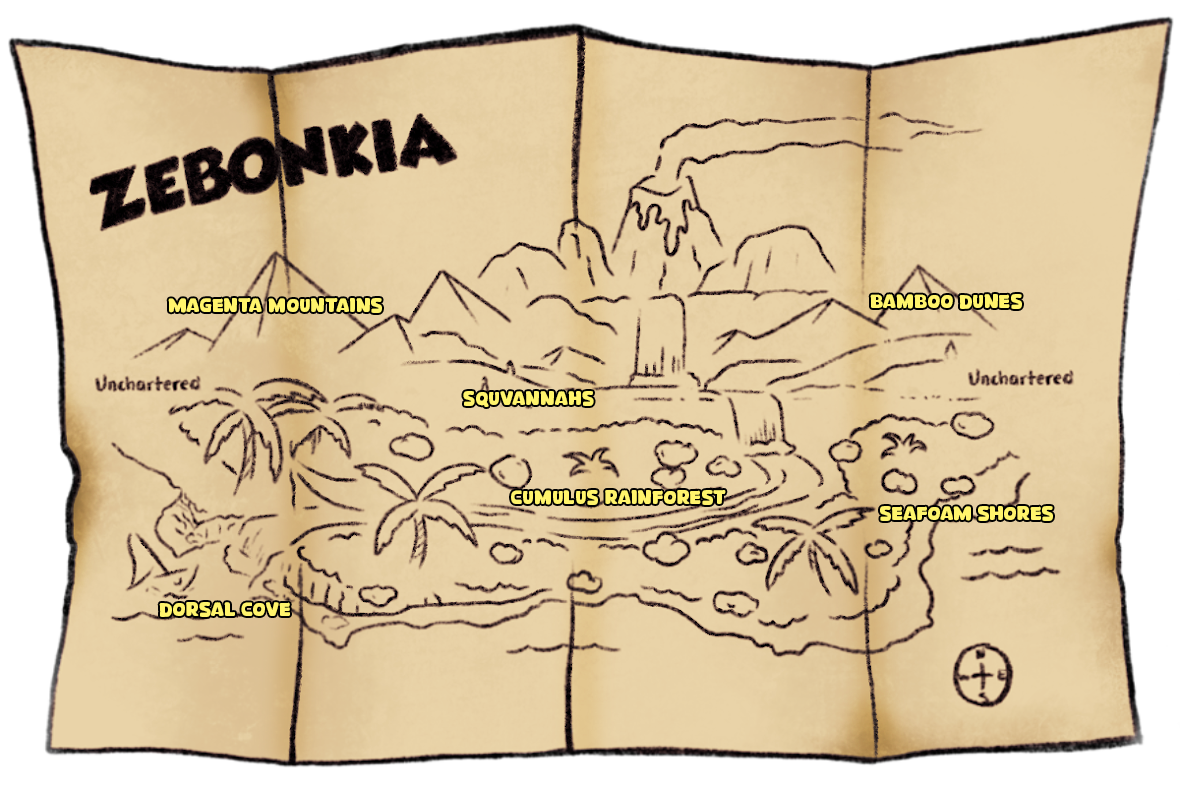
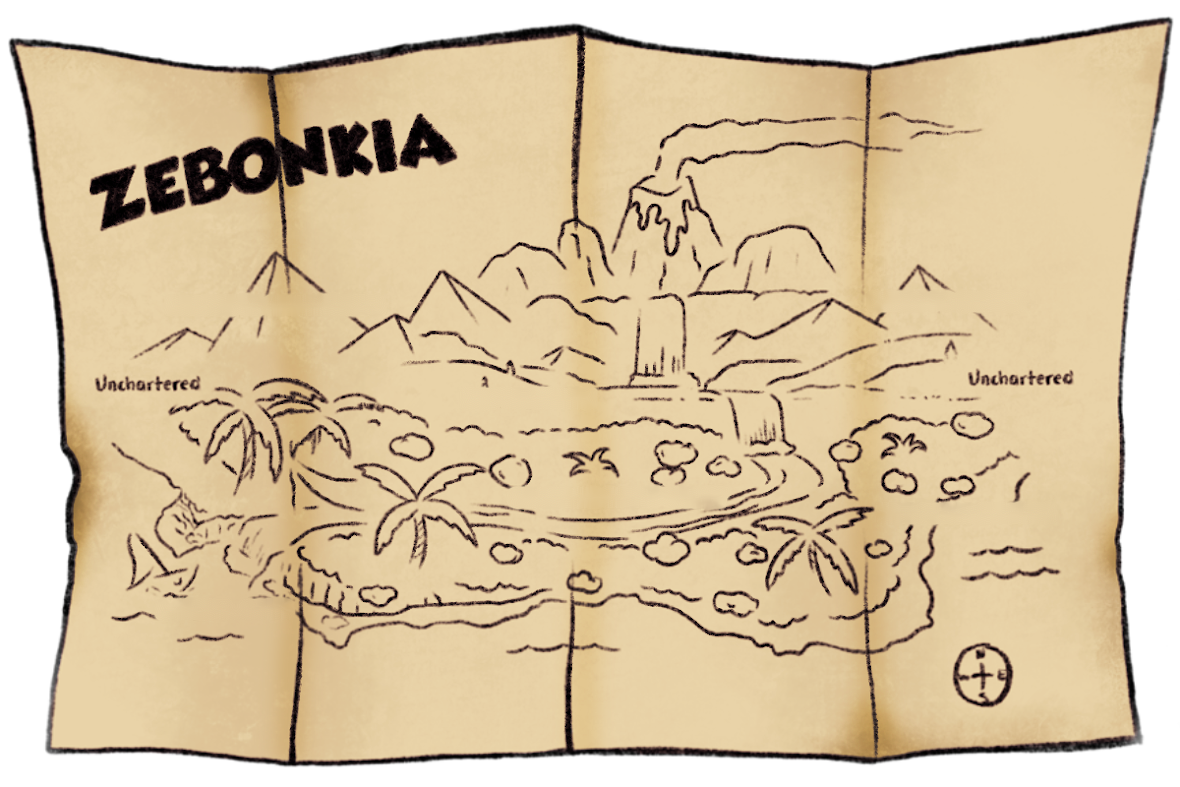
Map names as their own layer

diff --git a/src/scenes/Overworld.js b/src/scenes/Overworld.js
@@ -7,20 +7,32 @@
 // was answered (or a note says that's what earns it). A biome finished
 // before has an extra dot that leads back out to the whole map.
 
-import { LEVELS, PATHS, MAP_W, MAP_H, BIOMES, PLAY_BIOMES, biomeLevels } from '../data/world.js?v=05b4fb9';
-import { state, pathKey } from '../state.js?v=05b4fb9';
-import { COLORS, heading, text, makeButton } from '../theme.js?v=05b4fb9';
-import { audio, fullscreenButton, musicButton } from '../audio.js?v=05b4fb9';
-import { BUILD } from '../version.js?v=05b4fb9';
-import { starsFor, rewardTotals } from '../rewards.js?v=05b4fb9';
-import { currency, currencyIcon } from '../currency.js?v=05b4fb9';
-import { showCompanionCard } from '../companionCard.js?v=05b4fb9';
-import { showDifficultyMenu } from '../difficultyMenu.js?v=05b4fb9';
+import { LEVELS, PATHS, MAP_W, MAP_H, BIOMES, PLAY_BIOMES, biomeLevels } from '../data/world.js?v=c0150cb';
+import { state, pathKey } from '../state.js?v=c0150cb';
+import { COLORS, heading, text, makeButton } from '../theme.js?v=c0150cb';
+import { audio, fullscreenButton, musicButton } from '../audio.js?v=c0150cb';
+import { BUILD } from '../version.js?v=c0150cb';
+import { starsFor, rewardTotals } from '../rewards.js?v=c0150cb';
+import { currency, currencyIcon } from '../currency.js?v=c0150cb';
+import { showCompanionCard } from '../companionCard.js?v=c0150cb';
+import { showDifficultyMenu } from '../difficultyMenu.js?v=c0150cb';
 
 const WALK_SPEED = 280;     // map px per second
 const DOT_SPACING = 18;     // px between paw prints on a path
 const PAW_SIZE = 16;        // px across one paw print
 const ZOOM_MS = 900;        // the zoom into and out of a biome
+// Where each area's name goes on the map: the middle of the name painted
+// there before (tools/paint_out_map_labels.py printed the boxes).
+const MAP_NAMES = {
+  magenta: [275, 305],
+  squvannahs: [528, 399],
+  cumulus: [618, 497],
+  bamboo: [946, 301],
+  seafoam: [966, 513],
+  dorsal: [225, 609],
+};
+// The painted ZEBONKIA title's lower right corner, in map pixels: names keep out.
+const TITLE_BOX = { x1: 470, y1: 285 };
 
 // Zoomed into a biome, the map is drawn K times bigger; dots, prints and
 // the explorer are drawn 1/K the size so they stay the same on screen.
@@ -156,6 +168,7 @@ export class OverworldScene extends Phaser.Scene {
     this.world.add([this.pathLayer, this.nodeLayer, this.badgeLayer]);
     this.buildNodes();
     this.buildBadges();
+    this.buildNames();
     this.buildPlayer();
     this.world.add(this.player);
     this.buildPanel();
@@ -399,6 +412,70 @@ export class OverworldScene extends Phaser.Scene {
       });
     }
     this.currentBiome = current;
+    this.refreshNames(here);
+  }
+
+  // ---------- area names ----------
+
+  // The area names, a layer of their own over the map (the user, 2026-10-31:
+  // "remove the letters on the map and add them as their own layer"; they
+  // chose game text, revealed as areas unlock, styled and animated). The
+  // painted names are gone from the picture (tools/paint_out_map_labels.py);
+  // each name sits where its painted one did. They live in the badge layer,
+  // so they show on the whole map only, not in a close-up.
+  buildNames() {
+    this.names = {};
+    this.namesShown = new Set();
+    this.namesReady = false;
+    Object.entries(MAP_NAMES).forEach(([b, [x, y]]) => {
+      const t = this.add.text(x, y, BIOMES[b].name.toUpperCase(), heading(24, '#ffe14d', {
+        stroke: COLORS.inkCss, strokeThickness: 6,
+      })).setOrigin(0.5).setVisible(false);
+      // Where its area's badge would cover it (the rainforest's sits on its
+      // painted name), the name goes just above the badge instead, or below
+      // it where above runs into the ZEBONKIA title (Magenta Mountains).
+      const badge = this.badges[b];
+      if (badge && Math.abs(badge.y - y) < 44 && Math.abs(badge.x - x) < t.width / 2 + 30) {
+        const above = badge.y - 46;
+        const hitsTitle = x - t.width / 2 < TITLE_BOX.x1 && above - t.height / 2 < TITLE_BOX.y1;
+        t.setY(hitsTitle ? badge.y + 46 : above);
+      }
+      this.badgeLayer.addAt(t, 0);                             // (behind the badges)
+      this.names[b] = t;
+    });
+  }
+
+  // A name shows once its area is open (Bamboo Dunes, with no levels yet,
+  // only in inspection mode). One that opens while the map is up (its path
+  // just revealed) fades and pops in; the area she's in gently pulses.
+  refreshNames(here) {
+    if (!this.names) return;
+    if (this.namePulse) {
+      this.namePulse.stop();
+      this.namePulse = null;
+    }
+    Object.entries(this.names).forEach(([b, t]) => {
+      const open = state.inspectAll || (PLAY_BIOMES.includes(b) && this.biomeOpen(b));
+      if (!open) {
+        t.setVisible(false);
+        return;
+      }
+      t.setVisible(true).setScale(1);
+      if (!this.namesShown.has(b)) {
+        this.namesShown.add(b);
+        if (this.namesReady) {
+          t.setAlpha(0).setScale(0.6);
+          this.tweens.add({ targets: t, alpha: 1, scale: 1, duration: 700, ease: 'Back.Out' });
+          return;
+        }
+      }
+      t.setAlpha(1);
+    });
+    this.namesReady = true;
+    const t = here && this.names[here];
+    if (t && t.visible) {
+      this.namePulse = this.tweens.add({ targets: t, scale: 1.12, duration: 900, yoyo: true, repeat: -1, ease: 'Sine.InOut' });
+    }
   }
 
   onBadgeTapped(b) {

diff --git a/src/data/questions.js b/src/data/questions.js
@@ -15,23 +15,23 @@
 
 // This is the Explorer bank. Junior Explorer and Pioneer have their own
 // (questions_junior.js, questions_pioneer.js), copies of this one for now.
-import { JUNIOR_QUESTIONS } from './questions_junior.js?v=05b4fb9';
-import { PIONEER_QUESTIONS } from './questions_pioneer.js?v=05b4fb9';
-import dorsalJunior from './questions/dorsal_junior.js?v=05b4fb9';
-import dorsalExplorer from './questions/dorsal_explorer.js?v=05b4fb9';
-import dorsalPioneer from './questions/dorsal_pioneer.js?v=05b4fb9';
-import cumulusJunior from './questions/cumulus_junior.js?v=05b4fb9';
-import cumulusExplorer from './questions/cumulus_explorer.js?v=05b4fb9';
-import cumulusPioneer from './questions/cumulus_pioneer.js?v=05b4fb9';
-import squvannahsJunior from './questions/squvannahs_junior.js?v=05b4fb9';
-import squvannahsExplorer from './questions/squvannahs_explorer.js?v=05b4fb9';
-import squvannahsPioneer from './questions/squvannahs_pioneer.js?v=05b4fb9';
-import seafoamJunior from './questions/seafoam_junior.js?v=05b4fb9';
-import seafoamExplorer from './questions/seafoam_explorer.js?v=05b4fb9';
-import seafoamPioneer from './questions/seafoam_pioneer.js?v=05b4fb9';
-import magentaJunior from './questions/magenta_junior.js?v=05b4fb9';
-import magentaExplorer from './questions/magenta_explorer.js?v=05b4fb9';
-import magentaPioneer from './questions/magenta_pioneer.js?v=05b4fb9';
+import { JUNIOR_QUESTIONS } from './questions_junior.js?v=c0150cb';
+import { PIONEER_QUESTIONS } from './questions_pioneer.js?v=c0150cb';
+import dorsalJunior from './questions/dorsal_junior.js?v=c0150cb';
+import dorsalExplorer from './questions/dorsal_explorer.js?v=c0150cb';
+import dorsalPioneer from './questions/dorsal_pioneer.js?v=c0150cb';
+import cumulusJunior from './questions/cumulus_junior.js?v=c0150cb';
+import cumulusExplorer from './questions/cumulus_explorer.js?v=c0150cb';
+import cumulusPioneer from './questions/cumulus_pioneer.js?v=c0150cb';
+import squvannahsJunior from './questions/squvannahs_junior.js?v=c0150cb';
+import squvannahsExplorer from './questions/squvannahs_explorer.js?v=c0150cb';
+import squvannahsPioneer from './questions/squvannahs_pioneer.js?v=c0150cb';
+import seafoamJunior from './questions/seafoam_junior.js?v=c0150cb';
+import seafoamExplorer from './questions/seafoam_explorer.js?v=c0150cb';
+import seafoamPioneer from './questions/seafoam_pioneer.js?v=c0150cb';
+import magentaJunior from './questions/magenta_junior.js?v=c0150cb';
+import magentaExplorer from './questions/magenta_explorer.js?v=c0150cb';
+import magentaPioneer from './questions/magenta_pioneer.js?v=c0150cb';
 
 export const QUESTIONS = {
   dorsal: [

diff --git a/src/scenes/Platformer.js b/src/scenes/Platformer.js
@@ -2,20 +2,20 @@
 // from assets/svg/. Uses the level contract in levelApi.js, so the map,
 // quiz and save flow all work exactly as they will in the finished game.
 
-import { LEVELS, MAP_W, MAP_H } from '../data/world.js?v=05b4fb9';
-import { TILE, layoutFor } from '../data/levels.js?v=05b4fb9';
-import { state } from '../state.js?v=05b4fb9';
-import { COLORS, heading, text } from '../theme.js?v=05b4fb9';
-import { startQuiz, finishLevel, leaveLevel } from '../levelApi.js?v=05b4fb9';
-import { TERRAIN_SETS, texKey, pick, tileHash, solidRole, roleFiles, platformRole, BLOCKS, BLOCK_COLORS, BLOCKS_SKY } from '../data/artsets.js?v=05b4fb9';
-import { WildZebonky, GuideZebonky, zebonkyArt, ensureAnims, GRASS_SINK, LAND_DEPTH, WATER_DEPTH, layerFor } from '../actors.js?v=05b4fb9';
-import { makeNav } from '../pathing.js?v=05b4fb9';
-import { startQuestionRun } from '../data/questions.js?v=05b4fb9';
-import { audio, musicFor, musicButton, soundButton, fullscreenButton } from '../audio.js?v=05b4fb9';
-import { Companion } from '../companion.js?v=05b4fb9';
-import { startShowcase } from '../showcase.js?v=05b4fb9';
-import { startExplorerTour } from '../explorerTour.js?v=05b4fb9';
-import { LETTERS, lettersFound, findLetter, allLetters, currency, currencyIcon } from '../currency.js?v=05b4fb9';
+import { LEVELS, MAP_W, MAP_H } from '../data/world.js?v=c0150cb';
+import { TILE, layoutFor } from '../data/levels.js?v=c0150cb';
+import { state } from '../state.js?v=c0150cb';
+import { COLORS, heading, text } from '../theme.js?v=c0150cb';
+import { startQuiz, finishLevel, leaveLevel } from '../levelApi.js?v=c0150cb';
+import { TERRAIN_SETS, texKey, pick, tileHash, solidRole, roleFiles, platformRole, BLOCKS, BLOCK_COLORS, BLOCKS_SKY } from '../data/artsets.js?v=c0150cb';
+import { WildZebonky, GuideZebonky, zebonkyArt, ensureAnims, GRASS_SINK, LAND_DEPTH, WATER_DEPTH, layerFor } from '../actors.js?v=c0150cb';
+import { makeNav } from '../pathing.js?v=c0150cb';
+import { startQuestionRun } from '../data/questions.js?v=c0150cb';
+import { audio, musicFor, musicButton, soundButton, fullscreenButton } from '../audio.js?v=c0150cb';
+import { Companion } from '../companion.js?v=c0150cb';
+import { startShowcase } from '../showcase.js?v=c0150cb';
+import { startExplorerTour } from '../explorerTour.js?v=c0150cb';
+import { LETTERS, lettersFound, findLetter, allLetters, currency, currencyIcon } from '../currency.js?v=c0150cb';
 
 // Walking (the user, 2026-10-25): she builds up to speed instead of
 // starting at full speed, and letting go she slides a little before

diff --git a/src/main.js b/src/main.js
@@ -1,15 +1,15 @@
-import { MAP_W, MAP_H } from './data/world.js?v=05b4fb9';
-import { state } from './state.js?v=05b4fb9';
-import { audio } from './audio.js?v=05b4fb9';
-import { BootScene } from './scenes/Boot.js?v=05b4fb9';
-import { OverworldScene } from './scenes/Overworld.js?v=05b4fb9';
-import { PlatformerScene } from './scenes/Platformer.js?v=05b4fb9';
-import { QuizScene } from './scenes/Quiz.js?v=05b4fb9';
-import { BonusScene } from './scenes/Bonus.js?v=05b4fb9';
-import { SaveMenuScene } from './scenes/SaveMenu.js?v=05b4fb9';
-import { CharacterMenuScene } from './scenes/CharacterMenu.js?v=05b4fb9';
-import { LevelEndScene } from './scenes/LevelEnd.js?v=05b4fb9';
-import { takeLinkSave } from './savecode.js?v=05b4fb9';
+import { MAP_W, MAP_H } from './data/world.js?v=c0150cb';
+import { state } from './state.js?v=c0150cb';
+import { audio } from './audio.js?v=c0150cb';
+import { BootScene } from './scenes/Boot.js?v=c0150cb';
+import { OverworldScene } from './scenes/Overworld.js?v=c0150cb';
+import { PlatformerScene } from './scenes/Platformer.js?v=c0150cb';
+import { QuizScene } from './scenes/Quiz.js?v=c0150cb';
+import { BonusScene } from './scenes/Bonus.js?v=c0150cb';
+import { SaveMenuScene } from './scenes/SaveMenu.js?v=c0150cb';
+import { CharacterMenuScene } from './scenes/CharacterMenu.js?v=c0150cb';
+import { LevelEndScene } from './scenes/LevelEnd.js?v=c0150cb';
+import { takeLinkSave } from './savecode.js?v=c0150cb';
 
 state.load();
 // Opened from a save link: the map asks before loading it.

diff --git a/src/scenes/Boot.js b/src/scenes/Boot.js
@@ -1,11 +1,11 @@
-import { ARTSETS, texKey } from '../data/artsets.js?v=05b4fb9';
-import { testParams, DRAWN } from '../data/levels.js?v=05b4fb9';
-import { playableLevelId, BIOMES, MAP_W, MAP_H } from '../data/world.js?v=05b4fb9';
-import { CHARACTERS } from '../data/characters.js?v=05b4fb9';
-import { state } from '../state.js?v=05b4fb9';
-import { COLORS, heading, text } from '../theme.js?v=05b4fb9';
-import { showcaseData, showcaseArtset } from '../showcase.js?v=05b4fb9';
-import { explorerTourData, tourArtset, loadTourStrips } from '../explorerTour.js?v=05b4fb9';
+import { ARTSETS, texKey } from '../data/artsets.js?v=c0150cb';
+import { testParams, DRAWN } from '../data/levels.js?v=c0150cb';
+import { playableLevelId, BIOMES, MAP_W, MAP_H } from '../data/world.js?v=c0150cb';
+import { CHARACTERS } from '../data/characters.js?v=c0150cb';
+import { state } from '../state.js?v=c0150cb';
+import { COLORS, heading, text } from '../theme.js?v=c0150cb';
+import { showcaseData, showcaseArtset } from '../showcase.js?v=c0150cb';
+import { explorerTourData, tourArtset, loadTourStrips } from '../explorerTour.js?v=c0150cb';
 
 export class BootScene extends Phaser.Scene {
   constructor() {

diff --git a/designer/designer.js b/designer/designer.js
@@ -1,10 +1,10 @@
-import { TILE_PX, TERRAIN, MARKERS, DOOR, WAIT, CRATES } from './legend.js?v=05b4fb9';
-import { readDrawing } from './read-drawing.js?v=05b4fb9';
-import { ARTSETS, BLOCKS } from '../src/data/artsets.js?v=05b4fb9';
-import { LEVELS } from '../src/data/world.js?v=05b4fb9';
-import { TEST_LAYOUT_KEY } from '../src/data/levels.js?v=05b4fb9';
-import { backgroundGuide, tileSheet, svgToImage } from './guides.js?v=05b4fb9';
-import { readArtistFiles } from './artist.js?v=05b4fb9';
+import { TILE_PX, TERRAIN, MARKERS, DOOR, WAIT, CRATES } from './legend.js?v=c0150cb';
+import { readDrawing } from './read-drawing.js?v=c0150cb';
+import { ARTSETS, BLOCKS } from '../src/data/artsets.js?v=c0150cb';
+import { LEVELS } from '../src/data/world.js?v=c0150cb';
+import { TEST_LAYOUT_KEY } from '../src/data/levels.js?v=c0150cb';
+import { backgroundGuide, tileSheet, svgToImage } from './guides.js?v=c0150cb';
+import { readArtistFiles } from './artist.js?v=c0150cb';
 
 const $ = (id) => document.getElementById(id);
 const PREVIEW_SCALE = 0.4;   // 64 px tile -> about 26 px on screen

diff --git a/src/state.js b/src/state.js
@@ -2,11 +2,11 @@
 // Storage can be missing or blocked (private windows, previews), so every
 // read and write is guarded and the game still runs without it.
 
-import { LEVELS, PATHS, START_NODE, PLAY_BIOMES, biomeLevels } from './data/world.js?v=05b4fb9';
-import { DEFAULT_DIFFICULTY, difficultyById } from './data/difficulty.js?v=05b4fb9';
-import { DEFAULT_CHARACTER, characterById } from './data/characters.js?v=05b4fb9';
-import { bankFor, questionKey } from './data/questions.js?v=05b4fb9';
-import { BUILD } from './version.js?v=05b4fb9';
+import { LEVELS, PATHS, START_NODE, PLAY_BIOMES, biomeLevels } from './data/world.js?v=c0150cb';
+import { DEFAULT_DIFFICULTY, difficultyById } from './data/difficulty.js?v=c0150cb';
+import { DEFAULT_CHARACTER, characterById } from './data/characters.js?v=c0150cb';
+import { bankFor, questionKey } from './data/questions.js?v=c0150cb';
+import { BUILD } from './version.js?v=c0150cb';
 
 const KEY = 'zebonky-tms-save-v1';
 // The save before the last one, kept in case the last one is damaged.

diff --git a/src/scenes/CharacterMenu.js b/src/scenes/CharacterMenu.js
@@ -5,12 +5,12 @@
 // so far, the rest are ready for layered art (hair, hat, outfit, shoes) and
 // say "Soon". The stand-ins carry a note that they are temporary.
 
-import { MAP_W, MAP_H } from '../data/world.js?v=05b4fb9';
-import { state } from '../state.js?v=05b4fb9';
-import { COLORS, heading, text, makeButton } from '../theme.js?v=05b4fb9';
-import { CHARACTERS, LOOK_SLOTS } from '../data/characters.js?v=05b4fb9';
-import { audio } from '../audio.js?v=05b4fb9';
-import { companionGrid } from '../companionPicker.js?v=05b4fb9';
+import { MAP_W, MAP_H } from '../data/world.js?v=c0150cb';
+import { state } from '../state.js?v=c0150cb';
+import { COLORS, heading, text, makeButton } from '../theme.js?v=c0150cb';
+import { CHARACTERS, LOOK_SLOTS } from '../data/characters.js?v=c0150cb';
+import { audio } from '../audio.js?v=c0150cb';
+import { companionGrid } from '../companionPicker.js?v=c0150cb';
 
 const CARD_W = 980;
 const CARD_H = 640;

diff --git a/src/scenes/LevelEnd.js b/src/scenes/LevelEnd.js
@@ -8,11 +8,11 @@
 //   run: what this play did: { nodamage, tamed, questions, hasWild, hasCrates }
 //   levelData: set for a test run, to play it again
 
-import { MAP_W, MAP_H, LEVELS } from '../data/world.js?v=05b4fb9';
-import { state } from '../state.js?v=05b4fb9';
-import { COLORS, heading, text, makeButton } from '../theme.js?v=05b4fb9';
-import { LETTERS, REWARDS, REWARD_EACH, award, paid, lettersFound, allLetters, currency } from '../currency.js?v=05b4fb9';
-import { audio } from '../audio.js?v=05b4fb9';
+import { MAP_W, MAP_H, LEVELS } from '../data/world.js?v=c0150cb';
+import { state } from '../state.js?v=c0150cb';
+import { COLORS, heading, text, makeButton } from '../theme.js?v=c0150cb';
+import { LETTERS, REWARDS, REWARD_EACH, award, paid, lettersFound, allLetters, currency } from '../currency.js?v=c0150cb';
+import { audio } from '../audio.js?v=c0150cb';
 
 export class LevelEndScene extends Phaser.Scene {
   constructor() {

diff --git a/src/scenes/Quiz.js b/src/scenes/Quiz.js
@@ -2,12 +2,12 @@
 // A wrong answer fades out and pops up the hint, and the child tries again
 // until they find it. The right answer saves the treasure.
 
-import { LEVELS, MAP_W, MAP_H } from '../data/world.js?v=05b4fb9';
-import { drawQuestion } from '../data/questions.js?v=05b4fb9';
-import { state } from '../state.js?v=05b4fb9';
-import { COLORS, heading, text, makeButton } from '../theme.js?v=05b4fb9';
-import { audio } from '../audio.js?v=05b4fb9';
-import { showCompanionCard } from '../companionCard.js?v=05b4fb9';
+import { LEVELS, MAP_W, MAP_H } from '../data/world.js?v=c0150cb';
+import { drawQuestion } from '../data/questions.js?v=c0150cb';
+import { state } from '../state.js?v=c0150cb';
+import { COLORS, heading, text, makeButton } from '../theme.js?v=c0150cb';
+import { audio } from '../audio.js?v=c0150cb';
+import { showCompanionCard } from '../companionCard.js?v=c0150cb';
 
 const LETTERS = ['A', 'B', 'C', 'D'];
 

diff --git a/src/savecode.js b/src/savecode.js
@@ -19,10 +19,10 @@
 // reordered), or when more is packed in (the shop): old links then say so
 // instead of loading the wrong levels.
 
-import { LEVELS, PATHS, START_NODE, PLAY_BIOMES } from './data/world.js?v=05b4fb9';
-import { state, pathKey } from './state.js?v=05b4fb9';
-import { bankFor, questionKey } from './data/questions.js?v=05b4fb9';
-import { LETTERS, REWARDS } from './currency.js?v=05b4fb9';
+import { LEVELS, PATHS, START_NODE, PLAY_BIOMES } from './data/world.js?v=c0150cb';
+import { state, pathKey } from './state.js?v=c0150cb';
+import { bankFor, questionKey } from './data/questions.js?v=c0150cb';
+import { LETTERS, REWARDS } from './currency.js?v=c0150cb';
 
 // 3 added the answered questions; 4 the currency and its level rewards
 // (the user, 2026-10-30). Version 2 and 3 links still load, without them.

diff --git a/src/difficultyMenu.js b/src/difficultyMenu.js
@@ -4,11 +4,11 @@
 // (data/difficulty.js `about`). "Play this way" chooses it; Done or Escape
 // closes the screen.
 
-import { MAP_W, MAP_H } from './data/world.js?v=05b4fb9';
-import { DIFFICULTIES } from './data/difficulty.js?v=05b4fb9';
-import { state } from './state.js?v=05b4fb9';
-import { COLORS, heading, text, makeButton } from './theme.js?v=05b4fb9';
-import { audio } from './audio.js?v=05b4fb9';
+import { MAP_W, MAP_H } from './data/world.js?v=c0150cb';
+import { DIFFICULTIES } from './data/difficulty.js?v=c0150cb';
+import { state } from './state.js?v=c0150cb';
+import { COLORS, heading, text, makeButton } from './theme.js?v=c0150cb';
+import { audio } from './audio.js?v=c0150cb';
 
 export function showDifficultyMenu(scene, onClose) {
   const layer = scene.add.container(0, 0).setDepth(60);
